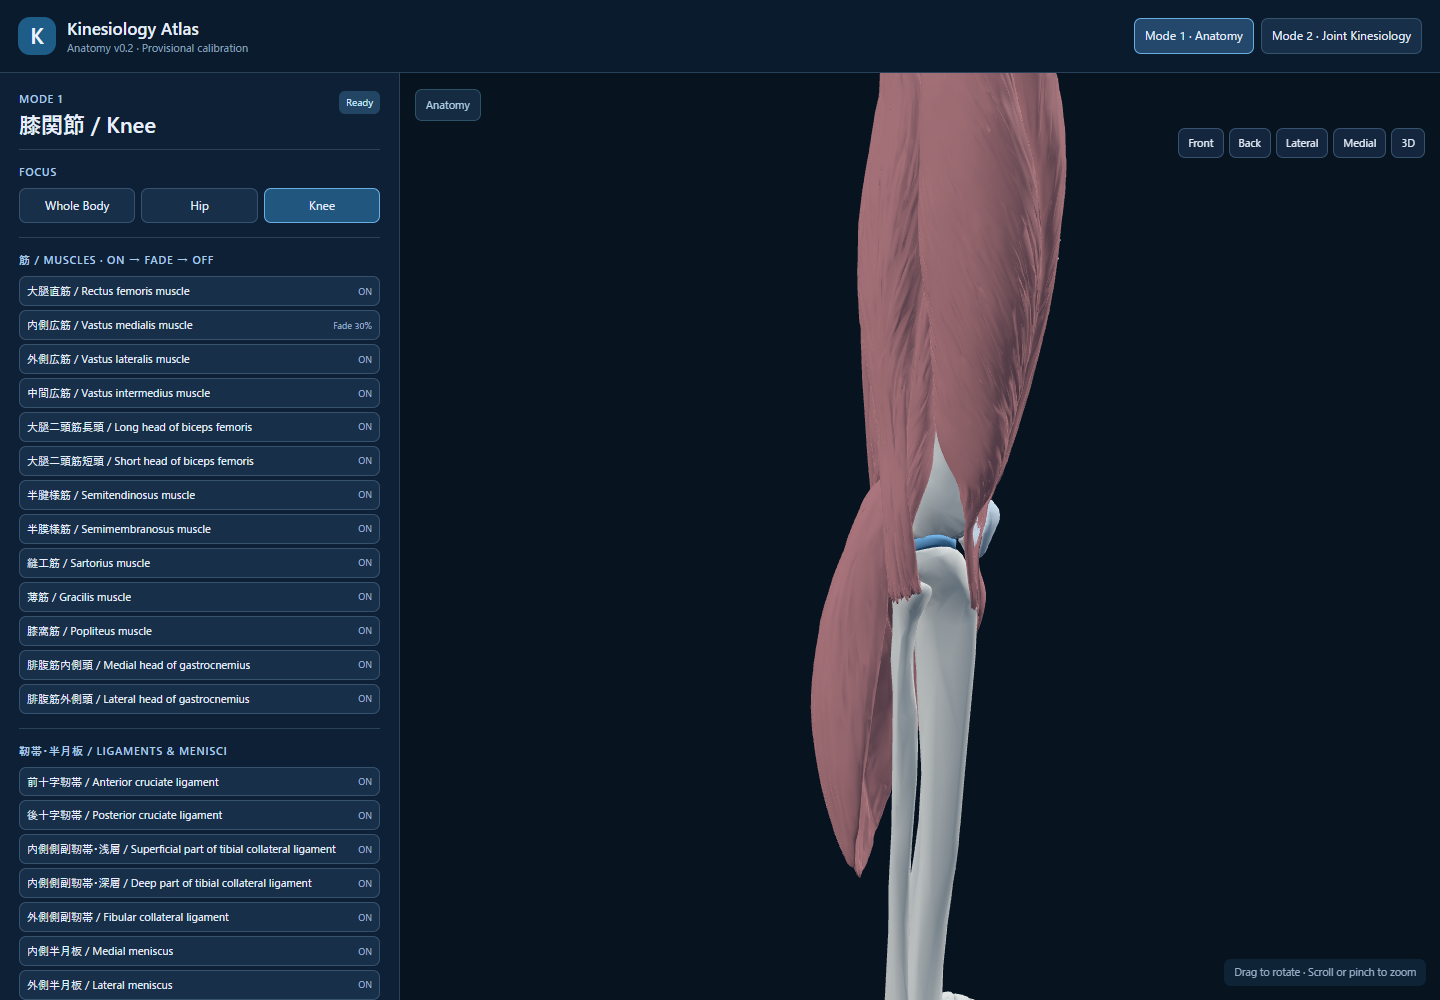
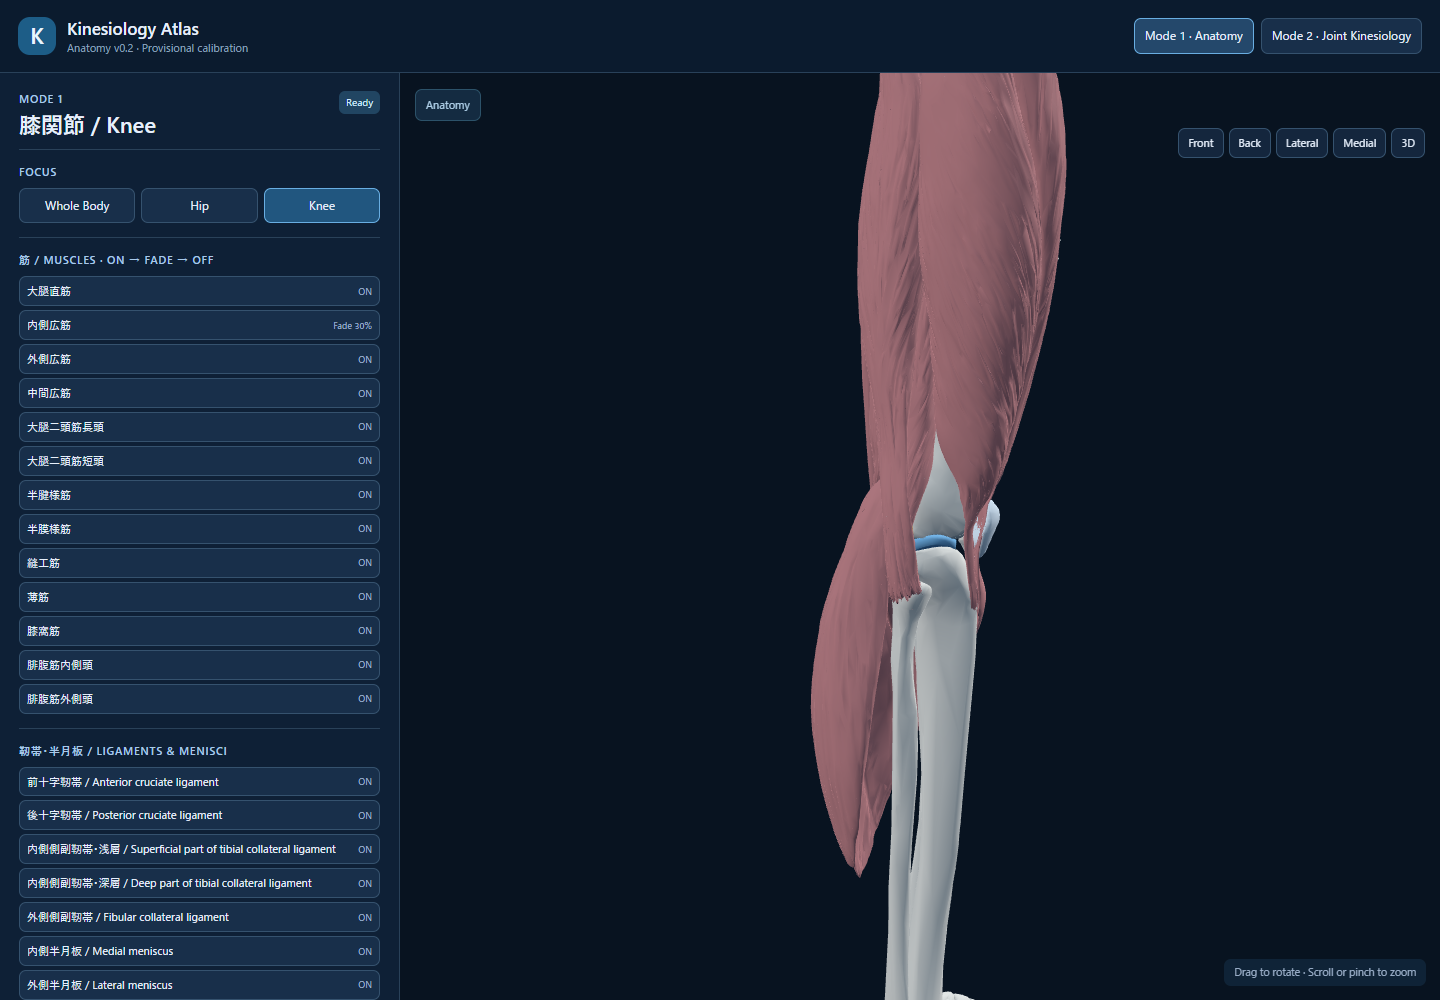
Place tissue controls near selection and simplify muscle labels

Changed region(s): [[0.0625, 0.279, 0.1562, 0.465], [0.0312, 0.527, 0.1562, 0.713]]

diff --git a/src/style.css b/src/style.css
@@ -1,6 +1,7 @@
 :root{color-scheme:dark;--ink:#e7f0fc;--muted:#8da3be;--line:#294159;--panel:#0e2036;--surface:#122841;--blue:#479ad8;--bg:#081320}*{box-sizing:border-box}body{margin:0;color:var(--ink);font:14px/1.45 system-ui,-apple-system,"Segoe UI",sans-serif;background:var(--bg)}button,select,input{font:inherit}button{cursor:pointer;background:#182f4a;color:var(--ink);border:1px solid #35526e;border-radius:7px;padding:8px 11px}button:hover:not(:disabled){background:#24486b}button.selected{background:#21567f;border-color:#69aee2}button:disabled{opacity:.33;cursor:not-allowed}.topbar{height:73px;display:flex;align-items:center;justify-content:space-between;gap:18px;padding:9px 18px;background:#0b1b2e;border-bottom:1px solid var(--line);position:relative;z-index:10}.brand{display:flex;align-items:center;gap:11px;white-space:nowrap}.brandmark{width:38px;height:38px;border-radius:12px;background:#1d5d87;color:#eaf6ff;font-size:22px;display:grid;place-items:center;font-weight:800}.brand strong{font-size:17px;display:block}.brand small{display:block;color:var(--muted);font-size:11px}.version{margin-left:8px;color:#a2c8ee}.modes{display:flex;gap:7px;flex-wrap:wrap;justify-content:flex-end}.modes button{font-size:12px;padding:8px 10px}.mobileOnly{display:none}.layout{display:grid;grid-template-columns:minmax(345px,400px) minmax(0,1fr);height:calc(100dvh - 73px);overflow:hidden}.sidebar{background:var(--panel);border-right:1px solid var(--line);padding:18px 19px;overflow-y:auto;scrollbar-width:thin}.sectionhead{display:flex;align-items:flex-start;justify-content:space-between;gap:10px}.sectionhead h1{font-size:22px;line-height:1.1;margin:5px 0 13px}.eyebrow,.smallhead{text-transform:uppercase;letter-spacing:.065em;color:#a9c9e9;font-size:11px;font-weight:700}.status{font-size:10px;padding:4px 7px;white-space:nowrap;background:#214562;border-radius:6px;color:#d8f0ff}.group{border-top:1px solid var(--line);padding:14px 0}.group .smallhead{display:block;margin-bottom:8px}.choicegrid{display:grid;grid-template-columns:repeat(3,1fr);gap:6px}.choicegrid button,.motionKinds button{padding:8px 5px;font-size:12px}.toggles>div{display:flex;justify-content:space-between;align-items:center;padding:7px 0;gap:10px;border-bottom:1px solid #1b3651}.toggles>div:last-child{border-bottom:0}select{background:#1a314c;color:var(--ink);border:1px solid #38536b;border-radius:6px;padding:5px}.motionKinds{display:grid;grid-template-columns:repeat(3,1fr);gap:5px}.angleLabels{display:flex;justify-content:space-between;align-items:center;margin-top:14px;font-size:12px;color:var(--muted)}.angleLabels strong{font-size:21px;color:#86c9f1}.group input[type=range]{width:100%;accent-color:#60b2e4;cursor:pointer;margin-top:10px}.inlineActions{display:flex;align-items:center;justify-content:space-between;gap:12px;margin-top:10px}.check{font-size:12px;color:#b7d3ec}.check input{accent-color:#64b5ed;vertical-align:middle}.ligStatus{display:grid;grid-template-columns:1fr 1fr;gap:5px}.ligStatus .ligItem{background:#172f48;border:1px solid #294660;padding:7px;border-radius:5px}.ligItem strong{font-size:11px;display:block}.ligItem span{font-size:12px;color:#81c3f1}.tissueList{display:grid;grid-template-columns:1fr 1fr;gap:4px}.tissueList button{font-size:11px;text-align:left;padding:6px 7px;display:flex;justify-content:space-between;align-items:center;gap:4px}.tissueList small{color:#a2bad5}.tissueList button[data-state=off]{opacity:.55}.selection{font-size:12px;color:#b9d3e9;border:1px solid #25425f;background:#12273c;padding:10px;border-radius:8px;min-height:42px}.selectedName{font-size:14px;font-weight:700;color:#fff}.selectedEnglish{font-size:11px;color:#9bb8d4;margin:3px 0 7px}.selectedActions{display:flex;gap:5px}.selectedActions button{font-size:11px;padding:5px 8px}.smallprint{font-size:10.5px;line-height:1.5;color:#839ab4}.diagnostics{margin-top:14px;font-size:11px;color:#a3bdd9}.diagnostics pre{white-space:pre-wrap;max-height:190px;overflow:auto}.fileLabel{display:block;font-size:12px;margin-top:8px}.fileLabel input{display:block;margin-top:5px;font-size:11px;width:100%}.viewport{position:relative;min-width:0;background:#081320;overflow:hidden}#canvasHost{width:100%;height:100%}canvas{display:block;touch-action:none}.viewTools{position:absolute;top:15px;right:15px;display:flex;flex-wrap:wrap;gap:5px;justify-content:end;max-width:80%;pointer-events:none}.viewTools button{pointer-events:auto;font-size:11px;padding:6px 9px;background:#162941da}.stageBadge{position:absolute;top:16px;left:15px;background:#17324ac9;border:1px solid #2c5269;border-radius:7px;padding:7px 10px;font-size:11px;color:#b4d5ee}.stageFoot{position:absolute;bottom:14px;right:14px;max-width:420px;font-size:10.5px;color:#a0b4ce;text-align:right;background:#122940b8;border-radius:7px;padding:6px 10px}.hoverPopup{position:absolute;z-index:9;background:#10263bea;border:1px solid #5797c3;border-radius:9px;padding:8px 12px;pointer-events:none;font-size:12px;max-width:230px;box-shadow:0 6px 20px #0008}.hoverPopup strong{display:block}.hoverPopup small{color:#9fbfdc}.loadOverlay{position:absolute;inset:0;display:flex;align-items:center;justify-content:center;flex-direction:column;gap:9px;background:#081320d9;z-index:5}.loadOverlay small{font-size:11px;color:#a8c2d8}.loader{width:28px;height:28px;border:3px solid #264563;border-top-color:#70b8e8;border-radius:100%;animation:spin 1s linear infinite}@keyframes spin{to{transform:rotate(360deg)}}.hipFrame{position:fixed;inset:73px 0 0;background:#081320;z-index:5}.hipFrame iframe{border:0;width:100%;height:100%}[hidden]{display:none!important}@media(max-width:1050px){.layout{grid-template-columns:345px minmax(0,1fr)}.sidebar{padding:12px}.topbar{padding:8px}.modes button{font-size:10.5px}}@media(max-width:740px){.topbar{height:63px}.brand strong{font-size:13px}.brand small{font-size:10px}.brandmark{width:30px;height:30px}.modes{gap:4px}.modes button{font-size:10px;padding:5px 7px}.modes button:disabled{display:none}.mobileOnly{display:block}.layout{height:calc(100dvh - 63px);grid-template-columns:1fr}.sidebar{position:absolute;z-index:7;left:0;top:63px;bottom:0;width:min(88vw,370px);box-shadow:10px 0 30px #0008}.sidebar.collapsed{display:none}.viewTools{top:13px;right:8px;max-width:76%}.viewTools button{font-size:10px;padding:5px}.stageBadge{font-size:9px;max-width:43%;top:11px}.stageFoot{left:12px;right:12px;text-align:center}.hipFrame{inset:63px 0 0}}@media(min-width:741px){.mobileOnly{display:none}}
 
 @media(max-width:740px){.topbar{height:96px;flex-wrap:wrap;align-content:space-between;gap:4px}.brand{width:calc(100% - 72px)}.brand small{display:none}.modes{width:100%;order:3;justify-content:flex-start;gap:5px}.modes button{font-size:10px;padding:6px 7px}.mobileOnly{position:absolute;right:8px;top:8px;padding:5px 9px}.layout{height:calc(100dvh - 96px)}.sidebar{top:96px}.hipFrame{inset:96px 0 0}}
-.floatingSelection{position:absolute;left:15px;bottom:55px;z-index:4;max-width:min(330px,90%);box-shadow:0 8px 24px #0008}
+.floatingSelection{position:absolute;z-index:10;max-width:min(280px,calc(100% - 16px));box-shadow:0 8px 24px #0008}
 .floatingSelection button{margin-top:8px}.tissueList{grid-template-columns:1fr}.tissueList small{flex-shrink:0}.tissueList span{overflow-wrap:anywhere}.viewTools{top:55px}.stageBadge{max-width:90%}
-@media(max-width:740px){.viewTools{top:auto;bottom:65px}.floatingSelection{bottom:110px}}
+@media(max-width:740px){.viewTools{top:auto;bottom:65px}}
+.floatingSelection button{min-width:90px;min-height:44px}

diff --git a/src/main.js b/src/main.js
@@ -59,7 +59,7 @@ function updateVisibility(){
  syncTissueUI();
  if(activeSelection)highlightSelected(activeSelection);
 }
-function cycleTissue(name){tissueStates.set(name,nextVisibility(tissueStates.get(name)));updateVisibility();if(activeSelection)selectStructure(activeSelection);}
+function cycleTissue(name){tissueStates.set(name,nextVisibility(tissueStates.get(name)));updateVisibility();if(activeSelection)selectStructure(activeSelection,{showFloating:!$('floatingSelection').hidden});}
 function syncTissueUI(){for(const row of document.querySelectorAll('[data-tissue]')){
  const name=row.dataset.tissue;row.hidden=!relevant(name,focus);row.dataset.state=tissueStates.get(name)||'off';
  row.querySelector('small').textContent=registered.has(name)?(row.dataset.state==='fade'?'Fade 30%':row.dataset.state.toUpperCase()):'Unavailable';
@@ -177,17 +177,29 @@ function setView(v){if(!modelLoaded)return;const target=controls.target.clone(),
  const dirs={front:[0,0,1],back:[0,0,-1],lateral:[sideSign,0,0],medial:[-sideSign,0,0],iso:[sideSign*.8,.4,1]};camera.position.copy(target).add(new THREE.Vector3(...dirs[v]).normalize().multiplyScalar(d));camera.up.set(0,1,0);controls.update();}
 function uiMuscleList(){for(const [name,jp,kind] of tissues){
  const b=document.createElement('button');b.type='button';b.dataset.tissue=name;
- const title=document.createElement('span');title.textContent=jp+' / '+englishName(name);const state=document.createElement('small');b.append(title,state);
+ const title=document.createElement('span');title.textContent=kind==='muscle'?jp:jp+' / '+englishName(name);const state=document.createElement('small');b.append(title,state);
  b.addEventListener('click',()=>cycleTissue(name));$(kind==='muscle'?'muscleList':'ligamentList').append(b);
 }}
 function highlightSelected(name){for(const [k,m] of originalMaterials){const picked=k===name&&visibleStates.get(k)!=='off';m.emissive.setHex(picked?0x2e7baa:0x000000);m.emissiveIntensity=picked?.12:0;}}
-function selectStructure(name){activeSelection=name;highlightSelected(name);
+let selectionPoint=null;
+function positionSelection(){const el=$('floatingSelection');if(el.hidden||!selectionPoint)return;
+ const viewport=$('viewport').getBoundingClientRect(),gap=14,pad=8;
+ let x=selectionPoint.x+gap,y=selectionPoint.y+gap;
+ if(x+el.offsetWidth>viewport.width-pad)x=selectionPoint.x-el.offsetWidth-gap;
+ if(y+el.offsetHeight>viewport.height-pad)y=selectionPoint.y-el.offsetHeight-gap;
+ el.style.left=Math.max(pad,Math.min(x,viewport.width-el.offsetWidth-pad))+'px';
+ el.style.top=Math.max(pad,Math.min(y,viewport.height-el.offsetHeight-pad))+'px';
+}
+function selectStructure(name,{point=null,showFloating=true}={}){activeSelection=name;highlightSelected(name);
+ if(point){const rect=$('viewport').getBoundingClientRect();selectionPoint={x:point.x-rect.left,y:point.y-rect.top};}
+ $('hoverPopup').hidden=true;
  for(const id of ['selectedStructure','floatingSelection']){const el=$(id);el.replaceChildren();
-  const title=document.createElement('div');title.className='selectedName';title.textContent=(japaneseName(name)||englishName(name))+' / '+englishName(name);el.append(title);
+  const title=document.createElement('div');title.className='selectedName';title.textContent=japaneseName(name)||englishName(name);el.append(title);
+  if(id==='floatingSelection'){const en=document.createElement('div');en.className='selectedEnglish';en.textContent=englishName(name);el.append(en);}
   if(category.get(name)!=='bone'){const button=document.createElement('button');const state=tissueStates.get(name)||'off';button.textContent=state==='fade'?'Fade 30%':state.toUpperCase();button.addEventListener('click',()=>cycleTissue(name));el.append(button);}
   else {const label=document.createElement('small');label.textContent='Skeleton · ON';el.append(label);}
  }
- $('floatingSelection').hidden=false;
+ $('floatingSelection').hidden=!showFloating;positionSelection();
 }
 const raycaster=new THREE.Raycaster(),pointer=new THREE.Vector2();let mouseDown=null;
 function hitAt(x,y){const r=renderer.domElement.getBoundingClientRect();pointer.set((x-r.left)/r.width*2-1,-(y-r.top)/r.height*2+1);
@@ -195,14 +207,14 @@ function hitAt(x,y){const r=renderer.domElement.getBoundingClientRect();pointer.
  for(const hit of hits){const o=hit.object;if(meshInfo.has(o)&&o.visible)return meshInfo.get(o)}return null;
 }
 renderer.domElement.addEventListener('pointerdown',e=>{mouseDown={x:e.clientX,y:e.clientY,t:performance.now()}});
-renderer.domElement.addEventListener('pointerup',e=>{if(!mouseDown)return;const dist=Math.hypot(e.clientX-mouseDown.x,e.clientY-mouseDown.y);if(dist<9&&performance.now()-mouseDown.t<550){const name=hitAt(e.clientX,e.clientY);if(name)selectStructure(name)}mouseDown=null});
-renderer.domElement.addEventListener('pointermove',e=>{if(e.buttons){$('hoverPopup').hidden=true;return}
- const name=hitAt(e.clientX,e.clientY),tip=$('hoverPopup');if(!name){tip.hidden=true;return}
+renderer.domElement.addEventListener('pointerup',e=>{if(!mouseDown)return;const dist=Math.hypot(e.clientX-mouseDown.x,e.clientY-mouseDown.y);if(dist<9&&performance.now()-mouseDown.t<550){const name=hitAt(e.clientX,e.clientY);if(name)selectStructure(name,{point:{x:e.clientX,y:e.clientY}});else $('floatingSelection').hidden=true;}mouseDown=null});
+renderer.domElement.addEventListener('pointermove',e=>{if(e.buttons){$('hoverPopup').hidden=true;if(mouseDown&&Math.hypot(e.clientX-mouseDown.x,e.clientY-mouseDown.y)>=9)$('floatingSelection').hidden=true;return}
+ const name=hitAt(e.clientX,e.clientY),tip=$('hoverPopup');if(!name||(! $('floatingSelection').hidden&&name===activeSelection)){tip.hidden=true;return}
  tip.hidden=false;tip.replaceChildren();let strong=document.createElement('strong');strong.textContent=japaneseName(name)||englishName(name);let sub=document.createElement('small');sub.textContent=name.replace(/\.[rl]$/,'');tip.append(strong,sub);
  const b=$('viewport').getBoundingClientRect();tip.style.left=Math.min(e.clientX-b.left+12,b.width-220)+'px';tip.style.top=Math.max(10,e.clientY-b.top-48)+'px';
 });
 renderer.domElement.addEventListener('pointerleave',()=>{$('hoverPopup').hidden=true});
-function size(){const w=host.clientWidth,h=host.clientHeight;if(w<1||h<1)return;camera.aspect=w/h;camera.updateProjectionMatrix();renderer.setSize(w,h,false)}
+function size(){const w=host.clientWidth,h=host.clientHeight;if(w<1||h<1)return;camera.aspect=w/h;camera.updateProjectionMatrix();renderer.setSize(w,h,false);positionSelection()}
 new ResizeObserver(size).observe(host);size();
 uiMuscleList();
 for(const b of document.querySelectorAll('[data-mode]'))b.addEventListener('click',()=>setMode(b.dataset.mode));

diff --git a/tests/ui/atlas.spec.js b/tests/ui/atlas.spec.js
@@ -12,6 +12,7 @@ test('actual GLBs: Anatomy focus, display cycle, mode continuity and home',async
  writeFileSync('test-results/model-summary.json',JSON.stringify({bones:initial.bones.length,registered:initial.registered.length},null,2));
  for(const f of ['hip','knee']){await page.locator(`[data-focus="${f}"]`).click();const s=await snap();expect(s.focus).toBe(f);expect(s.bones.length).toBe(initial.bones.length);expect(s.bones.every(b=>b.visible)).toBeTruthy();expect(Math.abs(s.focusNDC[0])).toBeLessThan(.001);expect(Math.abs(s.focusNDC[1])).toBeLessThan(.001);}
  const quad=page.locator('[data-tissue="Vastus medialis muscle.r"]');await expect(quad).toBeEnabled();
+ await expect(quad.locator('span')).toHaveText('内側広筋');
  for(const state of ['fade','off','on']){await quad.click();await expect(quad).toHaveAttribute('data-state',state);}
  await quad.click();await page.locator('[data-view="medial"]').click();
  await expect.poll(async()=> (await snap()).bones.some(b=>b.name.endsWith('.l')&&b.opacity===.3)).toBeTruthy();
@@ -29,11 +30,14 @@ test('actual GLBs: Anatomy focus, display cycle, mode continuity and home',async
  await page.screenshot({path:'test-results/knee-anatomy.png'});
  // Raycast the actual canvas to select a tissue and operate the floating control.
  await page.locator('[data-view="front"]').click();
- const box=await page.locator('canvas').boundingBox();let picked=false;
- for(let dy=-.12;dy<=.12&&!picked;dy+=.06)for(let dx=-.12;dx<=.12&&!picked;dx+=.06){await page.mouse.click(box.x+box.width*(.5+dx),box.y+box.height*(.5+dy));picked=await page.locator('#floatingSelection button').isVisible();}
+ const box=await page.locator('canvas').boundingBox();let picked=false,clickPoint;
+ for(let dy=-.12;dy<=.12&&!picked;dy+=.06)for(let dx=-.12;dx<=.12&&!picked;dx+=.06){clickPoint={x:box.x+box.width*(.5+dx),y:box.y+box.height*(.5+dy)};await page.mouse.move(clickPoint.x,clickPoint.y);await page.mouse.click(clickPoint.x,clickPoint.y);picked=await page.locator('#floatingSelection button').isVisible();}
  expect(picked).toBeTruthy();const title=await page.locator('#floatingSelection .selectedName').textContent();
  const old=await page.locator('#floatingSelection button').textContent();const next=({'ON':'Fade 30%','Fade 30%':'OFF','OFF':'ON'})[old];
  await page.locator('#floatingSelection button').click();await expect(page.locator('#selectedStructure button')).toHaveText(next);await expect(page.locator('#floatingSelection .selectedName')).toHaveText(title);
+ const popup=await page.locator('#floatingSelection').boundingBox();expect(Math.abs(popup.x-clickPoint.x)).toBeLessThan(300);expect(Math.abs(popup.y-clickPoint.y)).toBeLessThan(160);
+ await expect(page.locator('#floatingSelection .selectedEnglish')).not.toHaveText('');
+ await page.screenshot({path:'test-results/selection-near-muscle.png'});
  await page.locator('[data-focus="body"]').click();const home=await snap();expect(home.focus).toBe('body');expect(home.states['Vastus medialis muscle.r']).toBe('on');expect(home.camera).toEqual(initial.camera);expect(home.target).toEqual(initial.target);expect(home.bones.every(b=>b.visible)).toBeTruthy();
  await page.screenshot({path:'test-results/whole-body.png'});
  for(const f of ['body','hip']){await page.locator(`[data-focus="${f}"]`).click();const a=await snap();await page.locator('[data-mode="kinesiology"]').click();const b=await snap();expect(b.focus).toBe(f);expect(b.states).toEqual(a.states);expect(b.camera).toEqual(a.camera);await page.locator('[data-mode="anatomy"]').click();}

diff --git a/docs/RELEASE_V0.2.md b/docs/RELEASE_V0.2.md
@@ -2,6 +2,13 @@
 
 実施日: 2026-10-30（日本時間）。Anatomy優先の開発版。関節中心・軸の解剖学的検証FIX前です。
 
+## UI追補
+
+- 左の筋リストと選択欄は日本語名のみ。日英名はホバーのポップアップと3Dクリックのフロートに表示。
+- 表示切替フロートを左下固定から、クリック／タップ位置の近くに変更。画面端では内側に収め、タッチ操作できる44pxのボタンを配置。OFF後もその位置でONへ戻せます。
+- 空白クリックや3D回転開始でフロートを閉じます。左の組織操作は閉じたフロートを勝手に開きません。
+- 構文・ロジック検査と実GLBのEdge回帰テストを再実行しPASS。筋の日本語行、クリック位置付近への配置、フロートからの表示変更と左選択欄の同期を確認。[確認画面](screenshots/selection-near-muscle.png)。
+
 ## 対象と保護範囲
 
 - 対象は `kharuyama-lab/kinesiology-atlas`、基点 `acf668c`、作業ブランチ `feat/anatomy-v0.2`。
